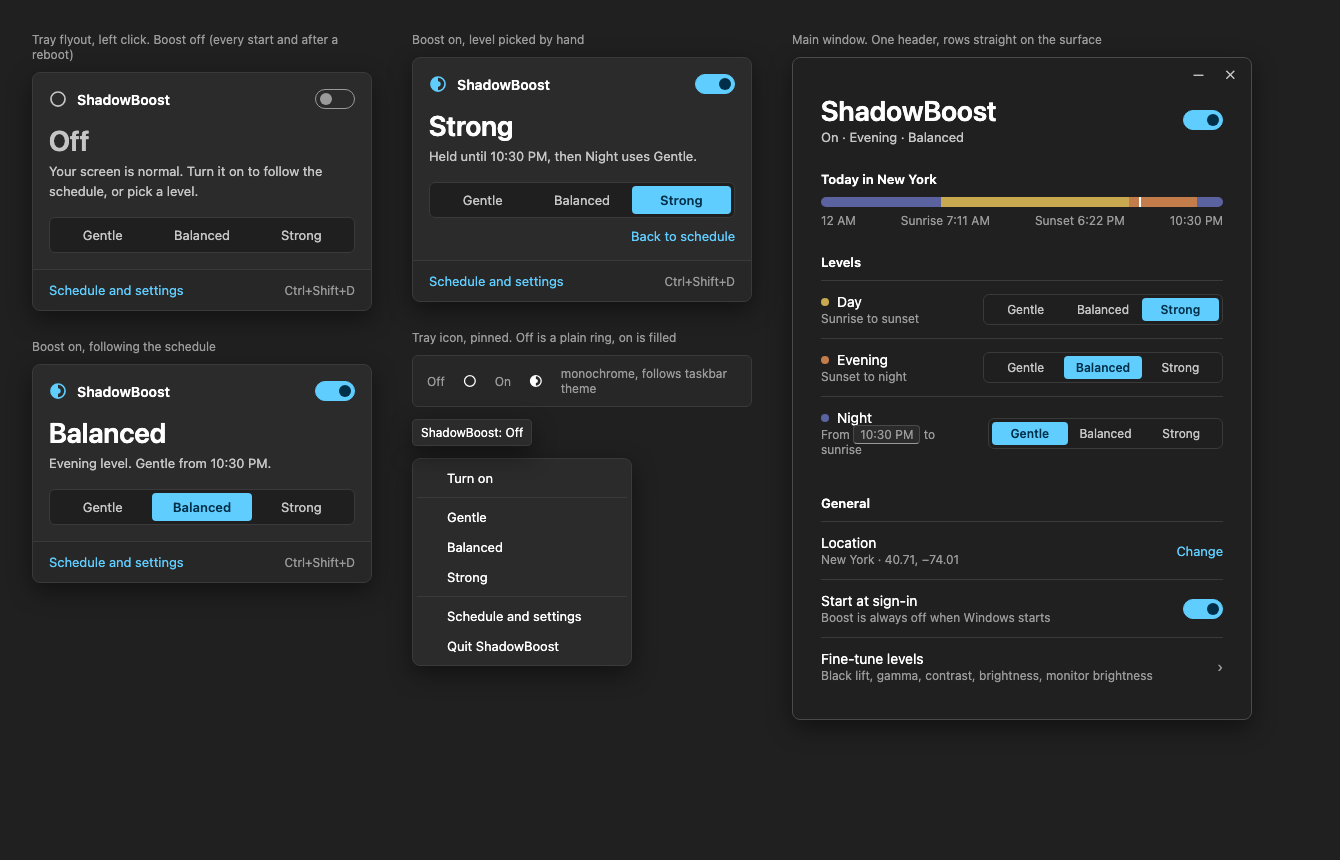
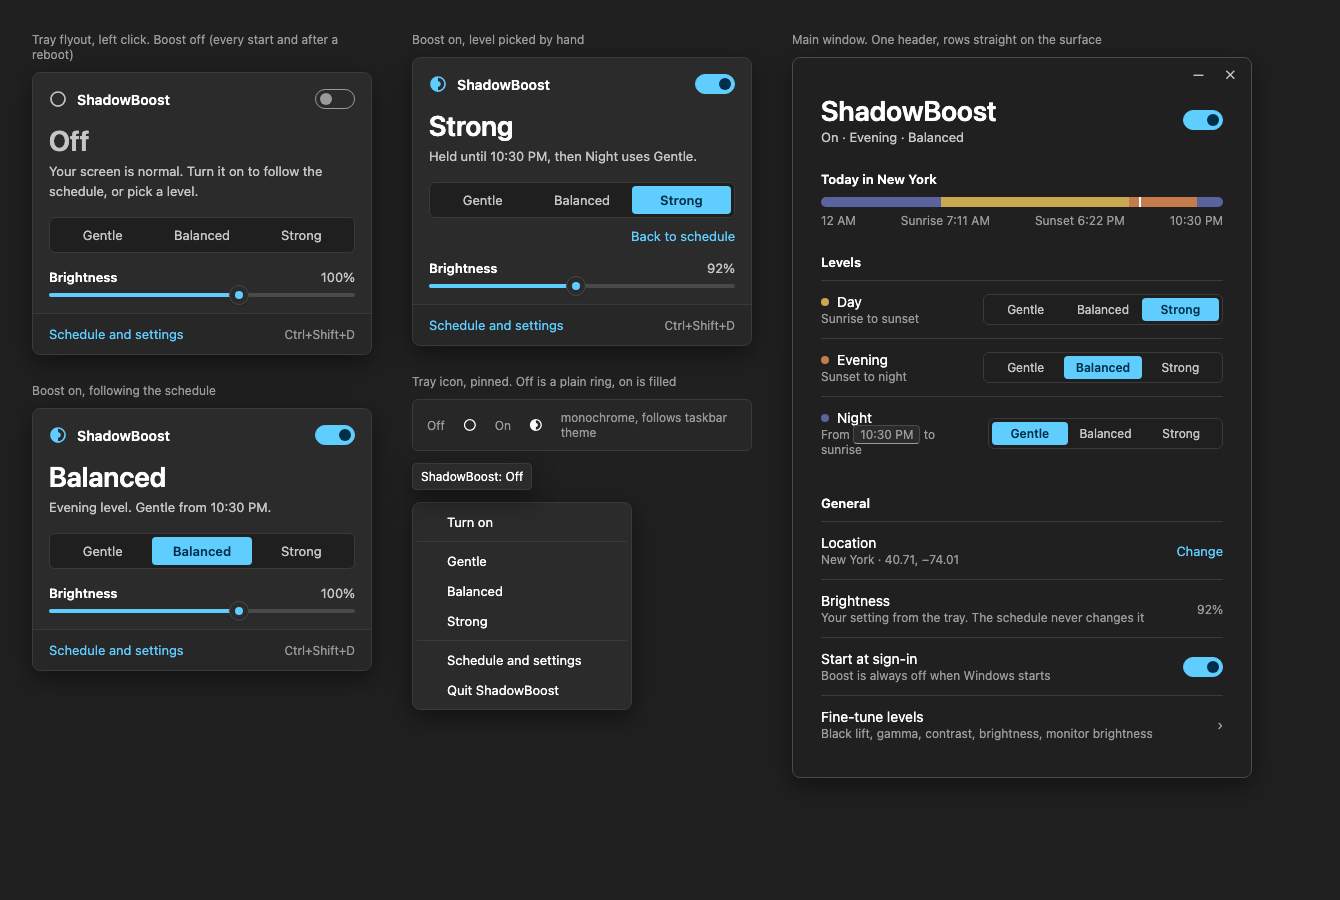
Night start field fits "10:30 PM"; mock gains the tray brightness slider
check: scripts/pc-check.sh all && scripts/pc-e2e.sh

diff --git a/docs/design/mock.html b/docs/design/mock.html
@@ -74,6 +74,13 @@ body{margin:0;font-family:var(--font);background:var(--bg);color:var(--text);pad
 .menu div.nocheck::before{content:"";width:8px}
 .menu hr{border:0;border-top:1px solid var(--stroke);margin:4px 0}
 .tip{margin-top:12px;display:inline-block;background:var(--surface);border:1px solid var(--stroke);border-radius:4px;padding:5px 8px;font-size:12px;box-shadow:var(--shadow)}
+.bright{padding:16px 16px 0}
+.bright .top{display:flex;justify-content:space-between;font-size:13px;color:var(--text-2);margin-bottom:8px}
+.bright .top b{font-weight:600;color:var(--text)}
+.track{position:relative;height:4px;border-radius:2px;background:var(--stroke-strong)}
+.track .fill{position:absolute;left:0;top:0;bottom:0;border-radius:2px;background:var(--accent)}
+.track .thumb{position:absolute;top:-8px;width:20px;height:20px;border-radius:10px;background:var(--surface);border:1px solid var(--stroke-strong);box-shadow:0 1px 2px rgba(0,0,0,.15)}
+.track .thumb::after{content:"";position:absolute;left:5px;top:5px;width:8px;height:8px;border-radius:4px;background:var(--accent)}
 </style></head>
 <body>
 <svg width="0" height="0" style="position:absolute">
@@ -89,7 +96,7 @@ body{margin:0;font-family:var(--font);background:var(--bg);color:var(--text);pad
       <div class="big off">Off</div>
       <div class="sub">Your screen is normal. Turn it on to follow the schedule, or pick a level.</div>
       <div class="seg"><span>Gentle</span><span>Balanced</span><span>Strong</span></div>
-      <div class="fly-foot"><span class="link">Schedule and settings</span><span class="kbd">Ctrl+Shift+D</span></div>
+      <div class="bright"><div class="top"><b>Brightness</b><span>100%</span></div><div class="track"><span class="fill" style="width:62%"></span><span class="thumb" style="left:calc(62% - 10px)"></span></div></div><div class="fly-foot"><span class="link">Schedule and settings</span><span class="kbd">Ctrl+Shift+D</span></div>
     </div>
     <p class="caption" style="margin-top:28px">Boost on, following the schedule</p>
     <div class="flyout">
@@ -97,7 +104,7 @@ body{margin:0;font-family:var(--font);background:var(--bg);color:var(--text);pad
       <div class="big">Balanced</div>
       <div class="sub">Evening level. Gentle from 10:30 PM.</div>
       <div class="seg"><span>Gentle</span><span class="sel">Balanced</span><span>Strong</span></div>
-      <div class="fly-foot"><span class="link">Schedule and settings</span><span class="kbd">Ctrl+Shift+D</span></div>
+      <div class="bright"><div class="top"><b>Brightness</b><span>100%</span></div><div class="track"><span class="fill" style="width:62%"></span><span class="thumb" style="left:calc(62% - 10px)"></span></div></div><div class="fly-foot"><span class="link">Schedule and settings</span><span class="kbd">Ctrl+Shift+D</span></div>
     </div>
   </div>
   <div>
@@ -108,7 +115,7 @@ body{margin:0;font-family:var(--font);background:var(--bg);color:var(--text);pad
       <div class="sub">Held until 10:30 PM, then Night uses Gentle.</div>
       <div class="seg"><span>Gentle</span><span>Balanced</span><span class="sel">Strong</span></div>
       <div class="hold"><span></span><span class="link">Back to schedule</span></div>
-      <div class="fly-foot"><span class="link">Schedule and settings</span><span class="kbd">Ctrl+Shift+D</span></div>
+      <div class="bright"><div class="top"><b>Brightness</b><span>92%</span></div><div class="track"><span class="fill" style="width:48%"></span><span class="thumb" style="left:calc(48% - 10px)"></span></div></div><div class="fly-foot"><span class="link">Schedule and settings</span><span class="kbd">Ctrl+Shift+D</span></div>
     </div>
     <p class="caption" style="margin-top:28px">Tray icon, pinned. Off is a plain ring, on is filled</p>
     <div class="tray">
@@ -143,6 +150,7 @@ body{margin:0;font-family:var(--font);background:var(--bg);color:var(--text);pad
         <div class="section">
           <div class="label">General</div>
           <div class="row"><div><div class="t">Location</div><div class="d">New York &middot; 40.71, &minus;74.01</div></div><span class="link">Change</span></div>
+          <div class="row"><div><div class="t">Brightness</div><div class="d">Your setting from the tray. The schedule never changes it</div></div><span class="d">92%</span></div>
           <div class="row"><div><div class="t">Start at sign-in</div><div class="d">Boost is always off when Windows starts</div></div><span class="switch on"></span></div>
           <div class="row"><div><div class="t">Fine-tune levels</div><div class="d">Black lift, gamma, contrast, brightness, monitor brightness</div></div><span class="chev">&#8250;</span></div>
         </div>

diff --git a/src/ShadowBoost.App/Views.cs b/src/ShadowBoost.App/Views.cs
@@ -107,7 +107,7 @@ public sealed class MainView : UserControl
             if (period == Period.Night)
             {
                 var inline = new StackPanel { Orientation = Orientation.Horizontal }; inline.Children.Add(UI.Text("From ",12,"Text3"));
-                TextBox? clock = null; clock = UI.Field(UI.Clock(settings.NightStart), text => { if (UI.ParseTime(text,out var t)) { settings.NightStart = t; app.Save(); } else clock!.Text = UI.Clock(settings.NightStart); },60); clock.Padding = new Thickness(3,0,3,0); clock.VerticalAlignment = VerticalAlignment.Center; inline.Children.Add(clock); inline.Children.Add(UI.Text(settings.FollowSun ? " to sunrise" : " to " + UI.Clock(settings.DayStart),12,"Text3")); left.Children.Add(inline);
+                TextBox? clock = null; clock = UI.Field(UI.Clock(settings.NightStart), text => { if (UI.ParseTime(text,out var t)) { settings.NightStart = t; app.Save(); } else clock!.Text = UI.Clock(settings.NightStart); },78); clock.Padding = new Thickness(3,0,3,0); clock.VerticalAlignment = VerticalAlignment.Center; inline.Children.Add(clock); inline.Children.Add(UI.Text(settings.FollowSun ? " to sunrise" : " to " + UI.Clock(settings.DayStart),12,"Text3")); left.Children.Add(inline);
             }
             else left.Children.Add(UI.Text(period == Period.Day ? (settings.FollowSun ? "Sunrise to sunset" : $"{UI.Clock(settings.DayStart)} to {UI.Clock(settings.EveningStart)}") : (settings.FollowSun ? "Sunset to night" : $"{UI.Clock(settings.EveningStart)} to night"),12,"Text3"));
             var picker = UI.Segments(settings.PeriodLevels[period], level => { settings.PeriodLevels[period] = level; app.Save(); },true);
